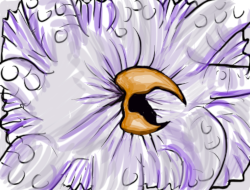
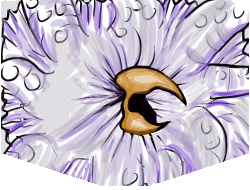
- renamed MakeshiftSpear and updated image  - card image updates

diff --git a/src/main/java/thePirate/cards/attacks/MakeshiftSpear.java b/src/main/java/thePirate/cards/attacks/MakeshiftSpear.java
@@ -17,24 +17,11 @@ import thePirate.actions.PurgeRemovablesAction;
 
 import static thePirate.PirateMod.makeCardPath;
 
-public class SpareRigging extends AbstractDynamicCard implements Purgable {
+public class MakeshiftSpear extends AbstractDynamicCard implements Purgable {
 
     private boolean purge;
 
-    // TEXT DECLARATION
-
-    public static final String ID = PirateMod.makeID(SpareRigging.class.getSimpleName()); // USE THIS ONE FOR THE TEMPLATE;
-    //TODO: JP: replace this at some point with actual image
-    public static final String IMG = makeCardPath("Attack.png");
-    //public static final String IMG = makeCardPath("SpareRigging.png");
-    // This does mean that you will need to have an image with the same NAME as the card in your image folder for it to run correctly.
-
-
-    // /TEXT DECLARATION/
-
-
     // STAT DECLARATION
-
     private static final CardRarity RARITY = CardRarity.COMMON; //  Up to you, I like auto-complete on these
     private static final CardTarget TARGET = CardTarget.ALL_ENEMY;  //   since they don't change much.
     private static final CardType TYPE = CardType.ATTACK;       //
@@ -45,11 +32,14 @@ public class SpareRigging extends AbstractDynamicCard implements Purgable {
 
     private static final int DAMAGE = 9;
     private static final int UPGRADE_PLUS_DMG = 0;
-
     // /STAT DECLARATION/
 
+    // TEXT DECLARATION
+    public static final String ID = PirateMod.makeID(MakeshiftSpear.class.getSimpleName());
+    public static final String IMG = makeCardPath(MakeshiftSpear.class.getSimpleName() + ".png", TYPE);
+    // /TEXT DECLARATION/
 
-    public SpareRigging() {
+    public MakeshiftSpear() {
         super(ID, IMG, COST, TYPE, COLOR, RARITY, TARGET);
         baseDamage = DAMAGE;
     }

diff --git a/src/main/java/thePirate/patches/vfx/CampfireSmithEffectPatch.java b/src/main/java/thePirate/patches/vfx/CampfireSmithEffectPatch.java
@@ -6,14 +6,14 @@ import com.megacrit.cardcrawl.cards.AbstractCard;
 import com.megacrit.cardcrawl.vfx.campfire.CampfireSmithEffect;
 import javassist.CannotCompileException;
 import javassist.CtBehavior;
-import thePirate.cards.attacks.SpareRigging;
+import thePirate.cards.attacks.MakeshiftSpear;
 
 @SpirePatch2(clz = CampfireSmithEffect.class, method = "update")
 public class CampfireSmithEffectPatch {
     @SpireInsertPatch(locator = Locator.class, localvars = {"c"})
     public static void onSmithPatch(AbstractCard c){
-        if(c instanceof SpareRigging){
-            ((SpareRigging) c).onSmith();
+        if(c instanceof MakeshiftSpear){
+            ((MakeshiftSpear) c).onSmith();
         }
     }
 

diff --git a/src/main/java/thePirate/cards/powers/PirateForm.java b/src/main/java/thePirate/cards/powers/PirateForm.java
@@ -28,7 +28,7 @@ public class PirateForm extends AbstractDynamicCard {
     private static final CardRarity RARITY = CardRarity.SPECIAL; //  Up to you, I like auto-complete on these
     private static final CardTarget TARGET = CardTarget.SELF;  //   since they don't change much.
     private static final CardType TYPE = CardType.POWER;       //
-    public static final CardColor COLOR = ThePirate.Enums.COLOR_GRAY;
+    public static final CardColor COLOR = CardColor.COLORLESS;
 
     private static final int COST = 3;
     private static final int UPGRADED_COST = 3;
